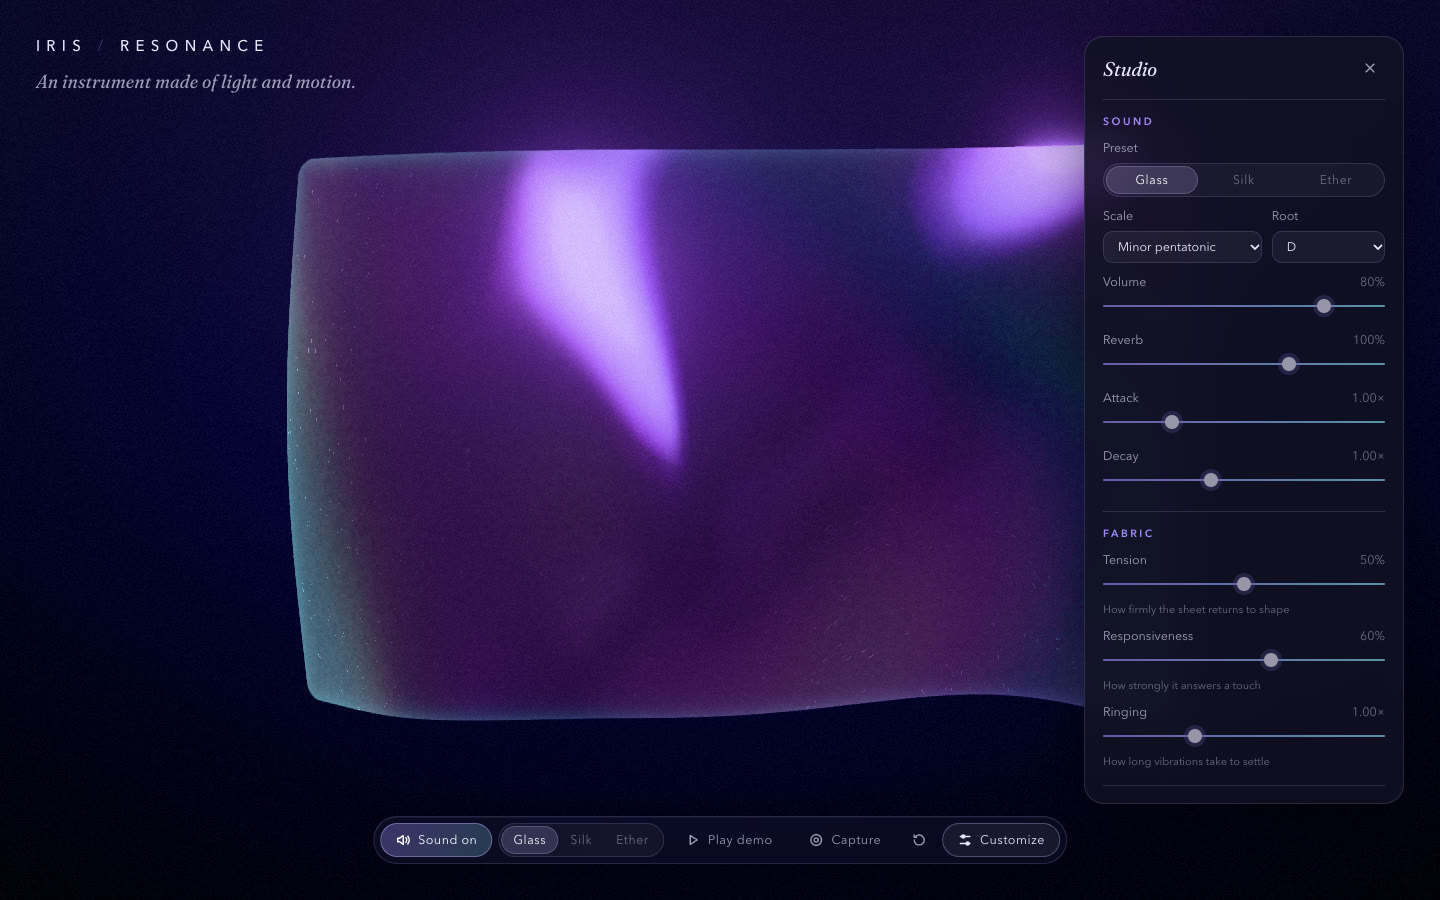
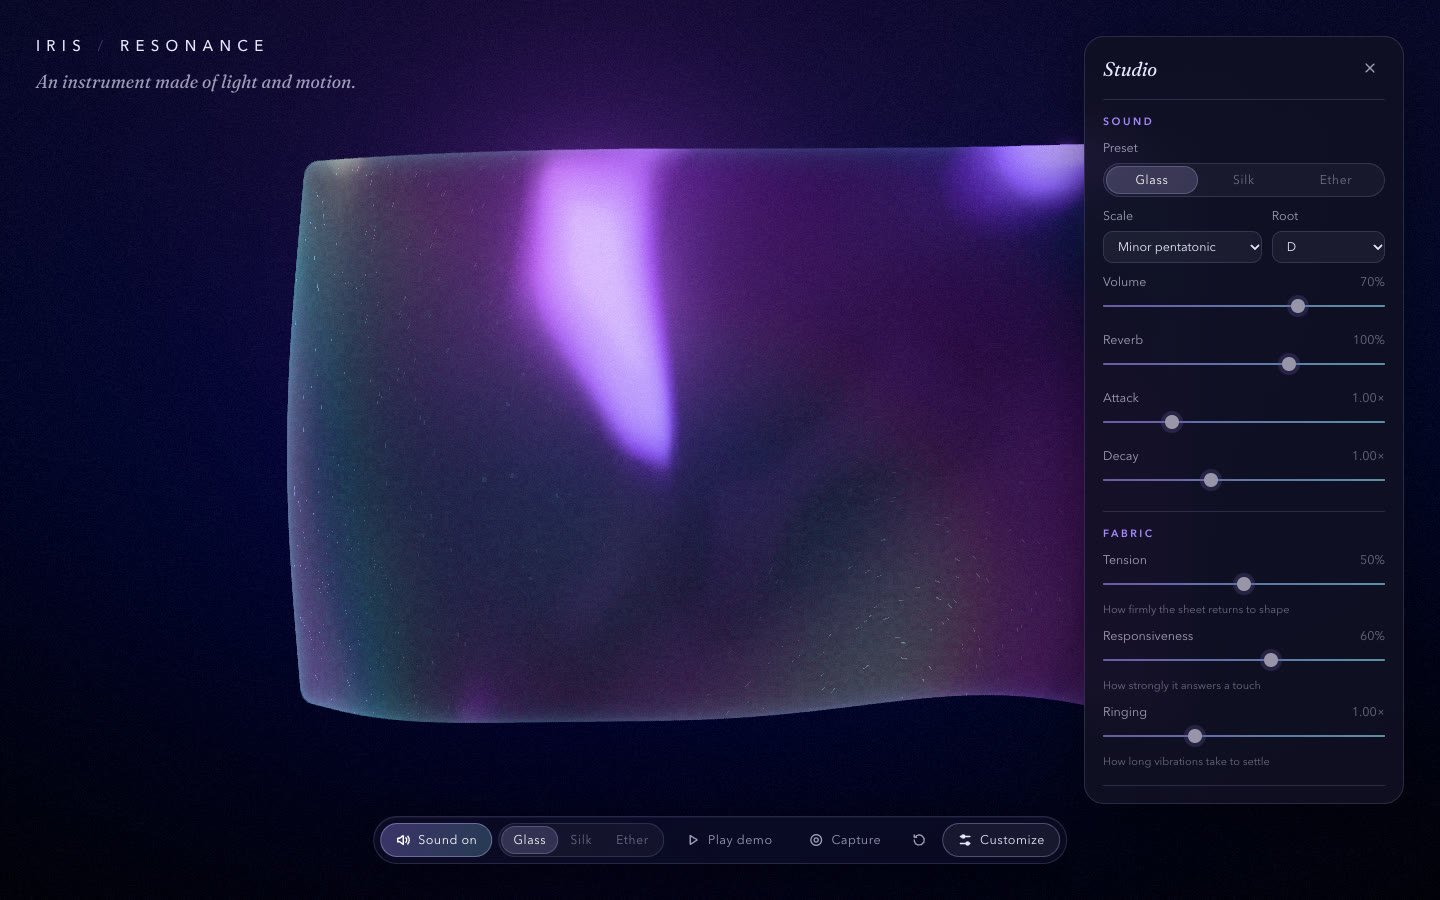
style: render a 2x Catmull-Rom refined mesh for smooth folds
The 61x39 simulation grid is upsampled to a 121x77 render mesh (exact at
simulated vertices, smooth between, zig-zags not amplified), along with
the per-vertex wave and strain attributes. Removes the ladder glints at
extreme folds with no physics cost (60 fps, 3.4 ms physics/frame).
3 unit tests; 51/51 browser tests across Chromium, Firefox and WebKit.

diff --git a/src/rendering/stage.ts b/src/rendering/stage.ts
@@ -9,6 +9,7 @@ import type { Membrane, SurfacePoint, Vec3 } from '../physics/membrane.ts';
 import { createResonanceMaterial, type ResonanceUniforms } from './holoMaterial.ts';
 import { GrainShader, createBackdrop } from './backdrop.ts';
 import type { VisualState } from './visualState.ts';
+import { fineSize, upsampleGrid } from './upsample.ts';
 
 export interface SurfaceHit {
   point: SurfacePoint;
@@ -44,6 +45,11 @@ export class Stage {
   private uniforms: ResonanceUniforms;
   private material: THREE.MeshPhysicalMaterial;
   private backdrop: ReturnType<typeof createBackdrop>;
+  /** render mesh is the simulation grid refined 2× (Catmull-Rom) */
+  private fine: { cols: number; rows: number };
+  private coarseScalars: Float32Array;
+  private scratch3: Float32Array;
+  private scratch2: Float32Array;
   private waveAttr: THREE.BufferAttribute;
   private strainAttr: THREE.BufferAttribute;
   private raycaster = new THREE.Raycaster();
@@ -99,16 +105,21 @@ export class Stage {
     const aniso = this.renderer.capabilities.getMaxAnisotropy();
     if (this.material.roughnessMap) this.material.roughnessMap.anisotropy = aniso;
 
-    this.geometry = buildGridGeometry(membrane, membrane.positions);
+    this.fine = fineSize(membrane.cols, membrane.rows);
+    const fineCount = this.fine.cols * this.fine.rows;
+    this.coarseScalars = new Float32Array(membrane.count * 2);
+    this.scratch3 = new Float32Array(membrane.rows * this.fine.cols * 3);
+    this.scratch2 = new Float32Array(membrane.rows * this.fine.cols * 2);
+    this.geometry = buildGridGeometry(this.fine.cols, this.fine.rows, new Float32Array(fineCount * 3));
     const posAttr = this.geometry.getAttribute('position') as THREE.BufferAttribute;
     posAttr.setUsage(THREE.DynamicDrawUsage);
-    this.waveAttr = new THREE.BufferAttribute(new Float32Array(membrane.count), 1);
+    this.waveAttr = new THREE.BufferAttribute(new Float32Array(fineCount), 1);
     this.waveAttr.setUsage(THREE.DynamicDrawUsage);
-    this.strainAttr = new THREE.BufferAttribute(new Float32Array(membrane.count), 1);
+    this.strainAttr = new THREE.BufferAttribute(new Float32Array(fineCount), 1);
     this.strainAttr.setUsage(THREE.DynamicDrawUsage);
     this.geometry.setAttribute('aWave', this.waveAttr);
     this.geometry.setAttribute('aStrain', this.strainAttr);
-    this.geometry.computeVertexNormals();
+    this.syncGeometry();
     this.mesh = new THREE.Mesh(this.geometry, this.material);
     this.mesh.frustumCulled = false;
     this.scene.add(this.mesh);
@@ -116,7 +127,7 @@ export class Stage {
     // undeformed copy (never rendered) — tells us which part of the fabric
     // sits under the pointer even while the real sheet is being pulled away
     this.restMesh = new THREE.Mesh(
-      buildGridGeometry(membrane, new Float32Array(membrane.cloth.rest)),
+      buildGridGeometry(membrane.cols, membrane.rows, new Float32Array(membrane.cloth.rest)),
       new THREE.MeshBasicMaterial({ side: THREE.DoubleSide }),
     );
     this.restMesh.updateMatrixWorld();
@@ -208,20 +219,7 @@ export class Stage {
   /** Push the membrane state into the GPU and draw a frame. */
   render(dt: number, visual: VisualState) {
     this.time += dt;
-    const m = this.membrane;
-    (this.geometry.getAttribute('position') as THREE.BufferAttribute).needsUpdate = true;
-    this.geometry.computeVertexNormals();
-
-    const wave = this.waveAttr.array as Float32Array;
-    const strain = this.strainAttr.array as Float32Array;
-    const h = m.wave.h;
-    for (let i = 0; i < m.count; i++) {
-      const v = Math.abs(m.wave.velocityAt(i));
-      wave[i] = Math.min(1.5, v * 0.9 + Math.abs(h[i]) * 9);
-      strain[i] = Math.min(1, Math.max(0, m.cloth.strain[i] * 9));
-    }
-    this.waveAttr.needsUpdate = true;
-    this.strainAttr.needsUpdate = true;
+    this.syncGeometry();
 
     const u = this.uniforms;
     u.uTime.value = this.time % 1000;
@@ -240,6 +238,36 @@ export class Stage {
     this.placeCamera();
     this.composer.render(dt);
   }
+
+  /** Refine the simulated surface and its resonance attributes onto the render mesh. */
+  private syncGeometry() {
+    const m = this.membrane;
+    const pos = this.geometry.getAttribute('position') as THREE.BufferAttribute;
+    upsampleGrid(m.positions, m.cols, m.rows, 3, this.scratch3, pos.array as Float32Array);
+    pos.needsUpdate = true;
+    this.geometry.computeVertexNormals();
+
+    const s = this.coarseScalars;
+    const h = m.wave.h;
+    for (let i = 0; i < m.count; i++) {
+      const v = Math.abs(m.wave.velocityAt(i));
+      s[i * 2] = Math.min(1.5, v * 0.9 + Math.abs(h[i]) * 9);
+      s[i * 2 + 1] = Math.min(1, Math.max(0, m.cloth.strain[i] * 9));
+    }
+    const fineCount = this.fine.cols * this.fine.rows;
+    const both = this.fineScalars ?? (this.fineScalars = new Float32Array(fineCount * 2));
+    upsampleGrid(s, m.cols, m.rows, 2, this.scratch2, both);
+    const wave = this.waveAttr.array as Float32Array;
+    const strain = this.strainAttr.array as Float32Array;
+    for (let i = 0; i < fineCount; i++) {
+      wave[i] = Math.max(0, both[i * 2]);
+      strain[i] = Math.max(0, both[i * 2 + 1]);
+    }
+    this.waveAttr.needsUpdate = true;
+    this.strainAttr.needsUpdate = true;
+  }
+
+  private fineScalars: Float32Array | null = null;
 
   private placeCamera() {
     const d = this.baseDistance;
@@ -326,8 +354,7 @@ export class Stage {
 }
 
 /** Indexed, checkerboard-triangulated grid sharing `positions` (row 0 = top), uv.y = 1 at top. */
-function buildGridGeometry(m: Membrane, positions: Float32Array): THREE.BufferGeometry {
-  const { cols, rows } = m;
+function buildGridGeometry(cols: number, rows: number, positions: Float32Array): THREE.BufferGeometry {
   const uvs = new Float32Array(cols * rows * 2);
   for (let r = 0; r < rows; r++) {
     for (let c = 0; c < cols; c++) {

diff --git a/src/rendering/upsample.ts b/src/rendering/upsample.ts
@@ -1,0 +1,59 @@
+/**
+ * 2× grid refinement for rendering: the simulation runs on a coarse grid,
+ * the GPU draws a grid with a new vertex between every pair of simulated
+ * ones. New vertices use the Catmull-Rom midpoint rule (−1, 9, 9, −1)/16,
+ * which passes exactly through the simulated points, reproduces linear
+ * fields exactly and keeps creases smooth instead of faceted.
+ */
+export function fineSize(cols: number, rows: number) {
+  return { cols: cols * 2 - 1, rows: rows * 2 - 1 };
+}
+
+/**
+ * Upsample an interleaved field with `stride` floats per vertex.
+ * `scratch` must hold rows × fineCols × stride floats.
+ */
+export function upsampleGrid(
+  src: Float32Array,
+  cols: number,
+  rows: number,
+  stride: number,
+  scratch: Float32Array,
+  out: Float32Array,
+) {
+  const fc = cols * 2 - 1;
+  const at = (x: number, max: number) => (x < 0 ? 0 : x > max ? max : x);
+  // horizontal pass: coarse rows → fine columns
+  for (let r = 0; r < rows; r++) {
+    for (let c = 0; c < cols; c++) {
+      const s = (r * cols + c) * stride;
+      const d = (r * fc + c * 2) * stride;
+      for (let k = 0; k < stride; k++) scratch[d + k] = src[s + k];
+      if (c === cols - 1) continue;
+      const i0 = (r * cols + at(c - 1, cols - 1)) * stride;
+      const i1 = s;
+      const i2 = (r * cols + c + 1) * stride;
+      const i3 = (r * cols + at(c + 2, cols - 1)) * stride;
+      const m = d + stride;
+      for (let k = 0; k < stride; k++) {
+        scratch[m + k] = (-src[i0 + k] + 9 * src[i1 + k] + 9 * src[i2 + k] - src[i3 + k]) / 16;
+      }
+    }
+  }
+  // vertical pass: fine columns → fine rows
+  for (let r = 0; r < rows; r++) {
+    for (let c = 0; c < fc; c++) {
+      const s = (r * fc + c) * stride;
+      const d = (r * 2 * fc + c) * stride;
+      for (let k = 0; k < stride; k++) out[d + k] = scratch[s + k];
+      if (r === rows - 1) continue;
+      const i0 = (at(r - 1, rows - 1) * fc + c) * stride;
+      const i2 = ((r + 1) * fc + c) * stride;
+      const i3 = (at(r + 2, rows - 1) * fc + c) * stride;
+      const m = ((r * 2 + 1) * fc + c) * stride;
+      for (let k = 0; k < stride; k++) {
+        out[m + k] = (-scratch[i0 + k] + 9 * scratch[s + k] + 9 * scratch[i2 + k] - scratch[i3 + k]) / 16;
+      }
+    }
+  }
+}

diff --git a/tests/unit/upsample.test.ts b/tests/unit/upsample.test.ts
@@ -1,0 +1,45 @@
+import { describe, expect, test } from 'vitest';
+import { fineSize, upsampleGrid } from '../../src/rendering/upsample.ts';
+
+function run(src: Float32Array, cols: number, rows: number, stride: number) {
+  const f = fineSize(cols, rows);
+  const scratch = new Float32Array(rows * f.cols * stride);
+  const out = new Float32Array(f.cols * f.rows * stride);
+  upsampleGrid(src, cols, rows, stride, scratch, out);
+  return { out, ...f };
+}
+
+describe('render-mesh upsampling', () => {
+  test('passes exactly through every simulated vertex', () => {
+    const cols = 7, rows = 5;
+    const src = Float32Array.from({ length: cols * rows * 3 }, (_, i) => Math.sin(i * 1.7) * 3);
+    const { out, cols: fc } = run(src, cols, rows, 3);
+    for (let r = 0; r < rows; r++) {
+      for (let c = 0; c < cols; c++) {
+        for (let k = 0; k < 3; k++) {
+          expect(out[((r * 2) * fc + c * 2) * 3 + k]).toBeCloseTo(src[(r * cols + c) * 3 + k], 6);
+        }
+      }
+    }
+  });
+
+  test('reproduces a linear field exactly in the interior', () => {
+    const cols = 6, rows = 6;
+    const src = new Float32Array(cols * rows);
+    for (let r = 0; r < rows; r++) for (let c = 0; c < cols; c++) src[r * cols + c] = 2 * c - 3 * r + 1;
+    const { out, cols: fc, rows: fr } = run(src, cols, rows, 1);
+    for (let r = 2; r < fr - 2; r++) {
+      for (let c = 2; c < fc - 2; c++) {
+        expect(out[r * fc + c]).toBeCloseTo(2 * (c / 2) - 3 * (r / 2) + 1, 5);
+      }
+    }
+  });
+
+  test('a grid-scale zig-zag is not amplified', () => {
+    const cols = 9, rows = 3;
+    const src = new Float32Array(cols * rows);
+    for (let r = 0; r < rows; r++) for (let c = 0; c < cols; c++) src[r * cols + c] = c % 2 === 0 ? 1 : -1;
+    const { out } = run(src, cols, rows, 1);
+    expect(Math.max(...out.map(Math.abs))).toBeLessThanOrEqual(1.0001);
+  });
+});

diff --git a/PROGRESS.md b/PROGRESS.md
@@ -41,7 +41,7 @@ checked below with their evidence. The remaining items are a live deployment
 
 ## Tests executed (latest)
 
-- `npm test`: 45 / 45
+- `npm test`: 48 / 48
 - `npm run test:e2e`: 51 / 51 across Chromium, Firefox, WebKit (dev); `E2E_PROD=1` (Chromium): 16 passed + 1 dev-only skip
 - `npm run build`: passes
 - Recording decoded with ffmpeg: VP9 + Opus, audio peak −10.9 dBFS
@@ -59,10 +59,10 @@ checked below with their evidence. The remaining items are a live deployment
 - Mobile icon buttons lost accessible names → visually-hidden labels
 - Cross-browser: first touch silent in Firefox/Safari → notes schedule while the context starts; WebKit WebM recordings truncated → Safari records MP4
 - Default volume 0.8 → 0.7 for headroom on hard overlapping plucks
+- Ladder glints at extreme folds → render mesh refined 2× from the simulation grid (Catmull-Rom); physics cost unchanged, 60 fps
 
 ## Known issues / limitations
 
-- At extreme pulls, a few small ladder-shaped glints can still appear at the tightest fold (the mesh is 61×39). A denser mesh fixes it at a CPU cost.
 - node-web-audio-api mis-renders future-scheduled oscillator automation. Unit tests avoid it, and glides plus samples are verified in Chrome.
 - Tested in Firefox and Playwright WebKit, but not in the shipping Safari app, on iOS, or on real touch hardware.
 - Not deployed: the saved Vercel token is invalid (`vercel login` needed).
@@ -72,4 +72,4 @@ checked below with their evidence. The remaining items are a live deployment
 
 1. `npx vercel login && npx vercel --prod`, set `VITE_SITE_URL`, redeploy, and check the X card.
 2. A human listening pass on all three presets (docs/audio/*.m4a), then retune by ear.
-3. Optional: adaptive mesh density on fast GPUs; Safari recording check.
+3. Check recording in the shipping Safari app and on an iPhone.

diff --git a/docs/testing.md b/docs/testing.md
@@ -6,7 +6,7 @@ decoded media.
 
 ## Unit tests — Vitest (`npm test`)
 
-45 tests in `tests/unit/`, run in Node.
+48 tests in `tests/unit/`, run in Node.
 
 **Physics** (`physics.test.ts`, 11):
 - the rest pose is an equilibrium; a still sheet stays still
@@ -26,6 +26,9 @@ ascends; every note is in scale for every scale × root; out-of-range input
 clamps; every continuous control stays in its range (including NaN and ±∞);
 bend is monotonic and capped at 2 semitones; slow drags visit each region
 once; boundary jitter never retriggers; fast jumps land directly.
+
+**Render-mesh refinement** (`upsample.test.ts`, 3): exact at simulated
+vertices, linear fields reproduced exactly, grid-scale zig-zags not amplified.
 
 **Gestures** (`gesture.test.ts`, 10), with a recording sound double: a tap is
 exactly one in-scale note and no sustain; stronger taps are louder *and*
@@ -87,7 +90,7 @@ reading pixels back from the WebGL frame.
 
 ## Latest results (2026-10-12, Apple M2 Pro, macOS, Chromium headless on Metal)
 
-- `npm test`: **45 / 45 passed**
+- `npm test`: **48 / 48 passed**
 - `npm run test:e2e` (dev): **51 / 51 passed** (17 × Chromium, Firefox, WebKit)
 - `E2E_PROD=1 npm run test:e2e` (production bundle): **16 passed, 1 skipped**
   (the Chrome glide test imports source modules, which only the dev server

diff --git a/README.md b/README.md
@@ -45,7 +45,7 @@ Then open `http://localhost:5310`.
 |---|---|
 | `npm run build` | Typecheck + production build into `dist/` |
 | `npm run preview` | Serve the production build on `:4199` |
-| `npm test` | 45 Vitest unit tests (physics, mapping, gestures, offline audio) |
+| `npm test` | 48 Vitest unit tests (physics, mapping, gestures, offline audio) |
 | `npm run test:e2e` | 17 Playwright tests × Chromium, Firefox and WebKit (see [docs/testing.md](docs/testing.md)) |
 | `E2E_PROD=1 npm run test:e2e` | The same against the production bundle |
 | `npm run samples` | Render preset audio samples in Chrome (dev server running) |

diff --git a/docs/architecture.md b/docs/architecture.md
@@ -140,8 +140,10 @@ injected diffraction flakes), extended with:
 
 The backdrop is drawn in-scene (one full-screen triangle), so it appears in
 PNG exports and video recordings. Its glow follows pitch and membrane energy.
-The mesh uses a checkerboard triangulation so creases render cleanly in any
-direction.
+The render mesh is the 61×39 simulation grid refined 2× to 121×77
+(`rendering/upsample.ts`, Catmull-Rom midpoints: exact at simulated vertices,
+smooth in between). It uses a checkerboard triangulation, so creases render
+cleanly in any direction. Physics cost is unchanged.
 
 ## React and state
 
